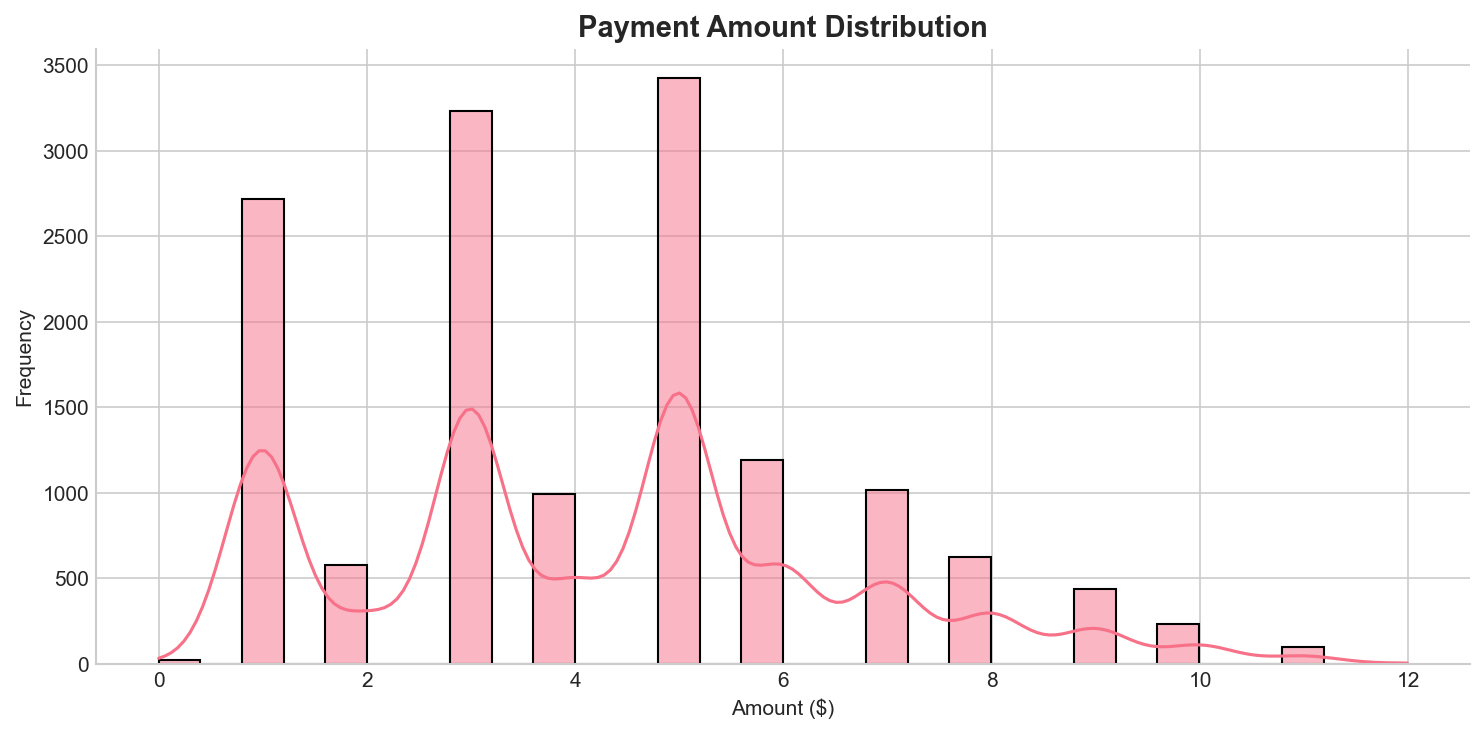
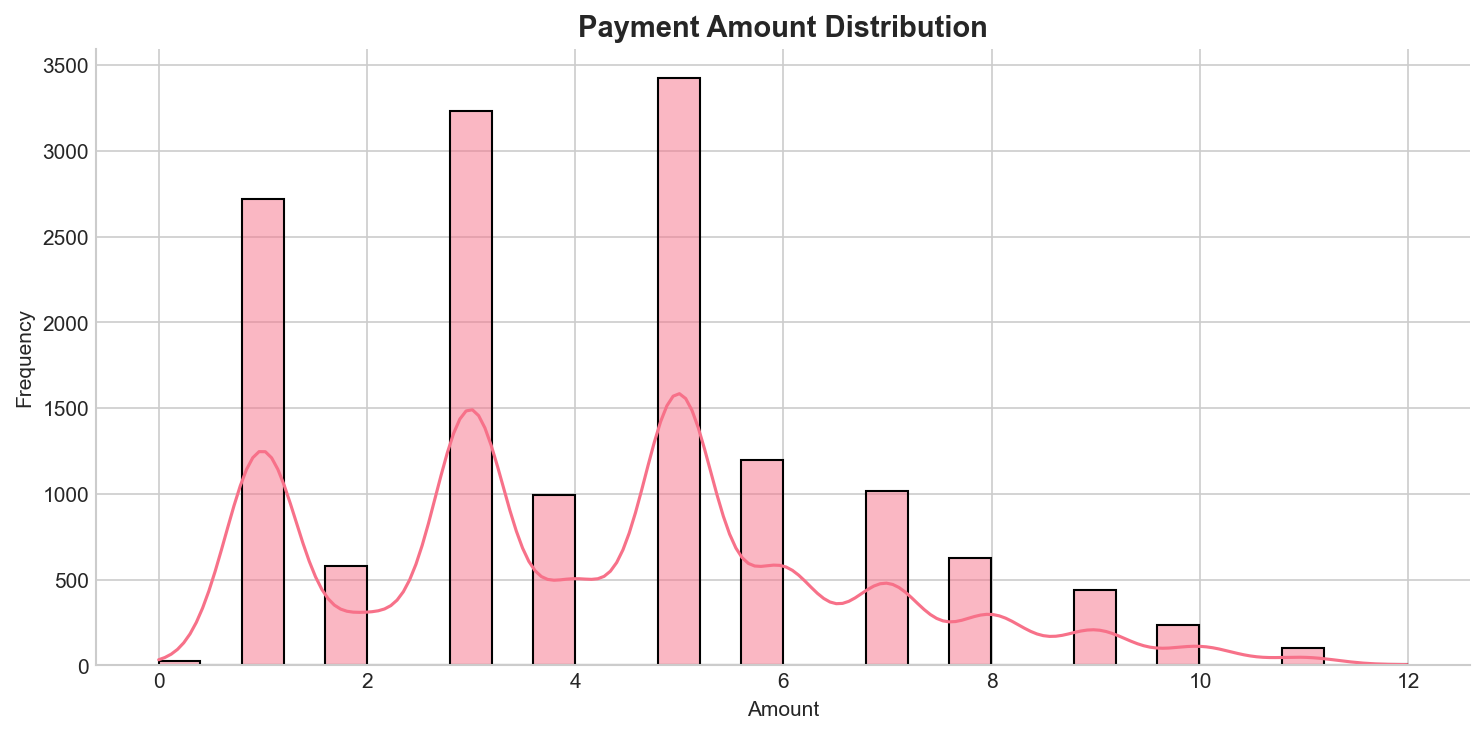
remove dollar signs

diff --git a/2_data_exploration.py b/2_data_exploration.py
@@ -120,7 +120,7 @@ def plot_payment_distribution(dataframes: dict) -> None:
     fig, ax = plt.subplots(figsize=(10, 5))
     sns.histplot(df["amount"], bins=30, kde=True, ax=ax)
     ax.set_title("Payment Amount Distribution", fontsize=14, fontweight="bold")
-    ax.set_xlabel("Amount ($)")
+    ax.set_xlabel("Amount")
     ax.set_ylabel("Frequency")
     ax.spines["top"].set_visible(False)
     ax.spines["right"].set_visible(False)
@@ -145,7 +145,7 @@ def plot_top_customers(dataframes: dict) -> None:
     sns.barplot(data=df, x="total_spent", y="customer", ax=ax)
     ax.set_title("Top 15 Customers by Total Spend",
                  fontsize=14, fontweight="bold")
-    ax.set_xlabel("Total Spent ($)")
+    ax.set_xlabel("Total Spent")
     ax.set_ylabel("Customer")
     ax.spines["top"].set_visible(False)
     ax.spines["right"].set_visible(False)